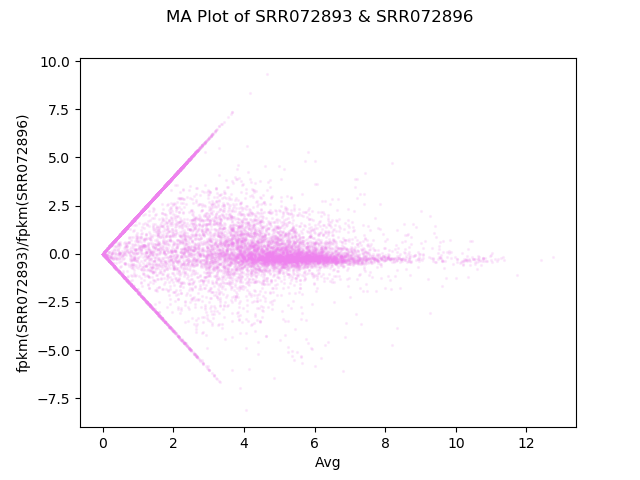
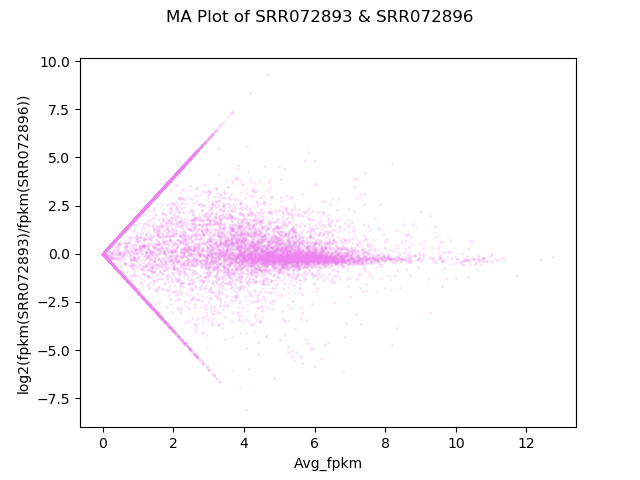
Day4-HW-Evening-MA_Plot

Changed region(s): [[0.0, 0.1875, 0.0625, 0.8125], [0.4688, 0.9375, 0.5625, 1.0]]

diff --git a/day4-HW/Day4-HW-Evening-MA_Plot.py b/day4-HW/Day4-HW-Evening-MA_Plot.py
@@ -24,8 +24,8 @@ avg = np.log2((df_1.loc[:,"FPKM"]+1)*(df_2.loc[:,"FPKM"]+1))*0.5
 #Plot#
 fig, ax = plt.subplots()
 fig.suptitle("MA Plot of SRR072893 & SRR072896")
-ax.set_xlabel("Avg")
-ax.set_ylabel("fpkm(SRR072893)/fpkm(SRR072896)")
+ax.set_xlabel("Avg_fpkm")
+ax.set_ylabel("log2(fpkm(SRR072893)/fpkm(SRR072896))")
 ax.scatter(avg, ratio, alpha=0.12, s=1.68, color="violet")
 fig.savefig( "MA-Plot.png" )
 plt.close(fig)
